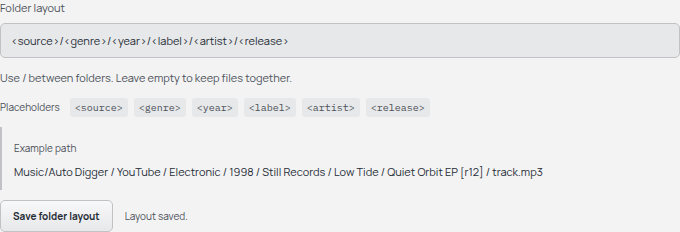
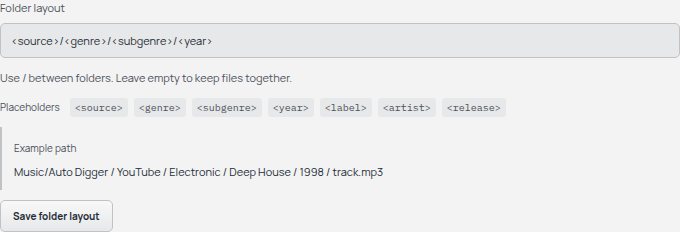
docs: explain the default genre and subgenre folder hierarchy

diff --git a/site/soulseek/index.html b/site/soulseek/index.html
@@ -508,19 +508,21 @@ web:
           <h2 id="folders-title">3. Organise downloads</h2>
           <p>
             Under Downloads in Settings, choose your Auto Digger destination and edit
-            <strong>Folder layout</strong>. Use any of the six placeholders:
+            <strong>Folder layout</strong>. Use these placeholders:
           </p>
           <p class="guide-placeholders">
-            <code>&lt;source&gt;</code> <code>&lt;genre&gt;</code> <code>&lt;year&gt;</code>
-            <code>&lt;label&gt;</code> <code>&lt;artist&gt;</code> <code>&lt;release&gt;</code>
+            <code>&lt;source&gt;</code> <code>&lt;genre&gt;</code> <code>&lt;subgenre&gt;</code>
+            <code>&lt;year&gt;</code> <code>&lt;label&gt;</code> <code>&lt;artist&gt;</code>
+            <code>&lt;release&gt;</code>
           </p>
           <pre
             role="region"
             tabindex="0"
             aria-label="Example folder layout"
-          ><code>&lt;source&gt;/&lt;artist&gt;/&lt;release&gt;</code></pre>
+          ><code>&lt;source&gt;/&lt;genre&gt;/&lt;subgenre&gt;/&lt;year&gt;</code></pre>
           <p>
-            Use <code>/</code> between folders, or combine values with ordinary text such as
+            New setups start with this layout. Saved layouts stay as you chose them. Use
+            <code>/</code> between folders, or combine values with ordinary text such as
             <code>&lt;year&gt; - &lt;genre&gt;</code>. Leave the field empty to keep files together.
             Choose <strong>Save folder layout</strong> when the preview looks right.
           </p>
@@ -529,15 +531,16 @@ web:
               src="../../docs/images/audio-folder-settings.png"
               width="680"
               height="232"
-              alt="Folder layout field with all six placeholder hints and an example download path"
+              alt="Default folder layout using source, genre, subgenre and year, with persistent placeholder hints"
               loading="lazy"
             />
             <figcaption>Placeholder hints stay visible while you edit the path.</figcaption>
           </figure>
           <p>
-            Genre and label use the first Discogs value; missing metadata gets an Unknown folder.
-            Release folders include the pressing ID. Changes apply to future downloads, and existing
-            files stay at their saved locations.
+            Subgenre uses the first style listed on Discogs, such as Deep House. Genre and label
+            also use the first Discogs value; missing metadata gets an Unknown folder. Release
+            folders include the pressing ID. Changes apply to future downloads, and existing files
+            stay at their saved locations.
           </p>
         </section>
         <section id="search" aria-labelledby="search-title">

diff --git a/CONTEXT.md b/CONTEXT.md
@@ -16,7 +16,7 @@ A connected account means Discogs verified a personal token for the current app 
 
 Phases 1 through 6 cover desktop foundation, connection/metadata, filtered search, random discovery, YouTube playback and local crate persistence. Cloud sync and export are outside this prototype. Native preview installers use electron-builder, with an included runtime for the MCP entry and separate audio-tool prerequisites. Dedicated Crates, Downloads and Settings sections share the bottom player with the digging desk. Store links open exact Discogs sellers or artist/title searches; search results are not verified recording matches.
 
-SQLite also indexes downloaded metadata and recorded directories. Sidecars support import/recovery and are not required for indexed playback. Unavailable destinations and missing audio affect individual rows. Settings opens from a cog at the navigation's right edge; material/accent are separate from appearance mode. Download organisation uses an editable relative path with source, genre, year, label, artist and release placeholders. The reference stays visible, the preview updates while editing, and saving is explicit. An empty template keeps files together. Legacy layouts keep their behaviour until edited. Genre and label use the first Discogs value, missing values use Unknown folders, and release folders include the pressing ID. Destination/layout changes apply to future downloads without moving existing audio.
+SQLite also indexes downloaded metadata and recorded directories. Sidecars support import/recovery and are not required for indexed playback. Unavailable destinations and missing audio affect individual rows. Settings opens from a cog at the navigation's right edge; material/accent are separate from appearance mode. Download organisation uses an editable relative path with source, genre, subgenre, year, label, artist and release placeholders. Subgenre uses the first Discogs style. New setups use <source>/<genre>/<subgenre>/<year>, while saved layouts remain unchanged. The reference stays visible, the preview updates while editing, and saving is explicit. An empty template keeps files together. Legacy layouts keep their behaviour until edited. Genre and label use the first Discogs value, missing values use Unknown folders, and release folders include the pressing ID. Destination/layout changes apply to future downloads without moving existing audio.
 
 A download job is an explicit commitment to save one audio source for a release. The main process runs a bounded serial queue with measured provider progress and stage-only conversion/tagging. Cancellation cleans staging; committed files remain indexed. Retry preserves completed work and pending-source uniqueness. Whole-release saving uses the source-row assignments, makes missing/ambiguous tracks explicit and chooses at most one source per track. Pending queue history is in memory; durable audio is separate.
 
